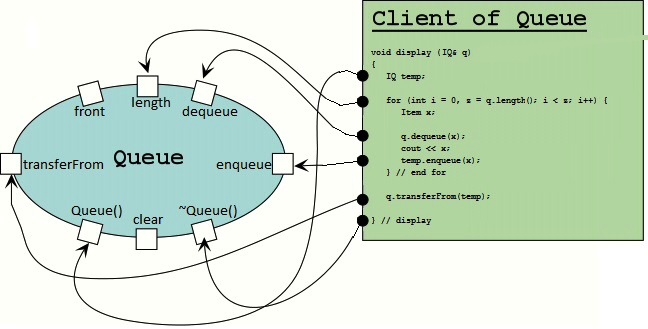
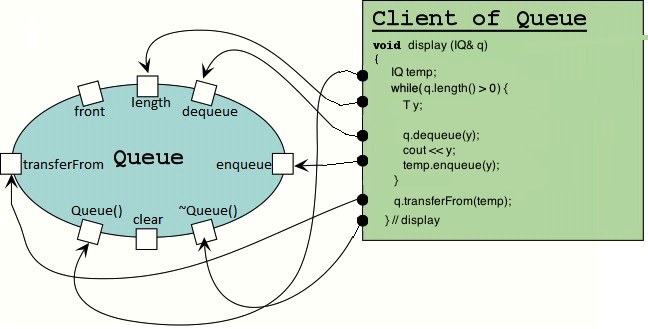
updated the Checking webpage

diff --git a/CheckingComponent/Checking.html b/CheckingComponent/Checking.html
@@ -85,25 +85,23 @@
         </li>
       </ul>
     </td>
-    <td width="50%" valign="top"><code><font size="2"><b>void</b> display (IQ&amp; q)<br>
-		//! restores q<br>
-      {<br>
-      &nbsp;&nbsp; IQ temp;<br>
-      <br>
-      &nbsp;&nbsp; <b>while</b> (q.length() &gt; 0) {<br>
-	  &nbsp;&nbsp;&nbsp;&nbsp;&nbsp;//! updates q<br>
-	  &nbsp;&nbsp;&nbsp;&nbsp;&nbsp;//! maintains temp * q = #q<br>
-	  &nbsp;&nbsp;&nbsp;&nbsp;&nbsp;//! decreases |q|<br>
-&nbsp;&nbsp;&nbsp;&nbsp;&nbsp; Item x;<br>
-	<br>
-      &nbsp;&nbsp;&nbsp;&nbsp;&nbsp; q.dequeue(x);<br>
-      &nbsp;&nbsp;&nbsp;&nbsp;&nbsp; cout &lt;&lt; x;<br>
-      &nbsp;&nbsp;&nbsp;&nbsp;&nbsp; temp.enqueue(x);<br>
-      &nbsp;&nbsp; }<br>
+    <td width="50%" valign="top"><code><font size="2"><pre><strong>void</strong> display (IQ& q)
+//! restores q
+{
+   IQ temp;
 
-      &nbsp;&nbsp; q.transferFrom(temp);<br>
+   <strong>while</strong> (q.length() &gt; 0) {
+     //! updates q
+     //! maintains temp * q = #q
+     //! decreases |q|
+      T y;
 
-      } // display</font></code>
+      q.dequeue(y);
+      cout &lt;&lt; y;
+      temp.enqueue(y);
+   }
+   q.transferFrom(temp);
+} // display</pre>
       <p><b>Client must abide by:</b></p>
       <ol>
         <li>The component's syntactic interface, i.e., call exported operations
@@ -211,28 +209,27 @@
     <p align="left">Visual Studio provides two configurations:</p>
     <ul>
       <li>
-        <p align="left">debug configuration - <code>NDEBUG</code> <i> is not</i>
-        automatically defined by using #define, the 'N' in NDEBUG stands for Not
-        debugging</p></li>
+        <p align="left">debug configuration - <code>_DEBUG</code> <i>is</i>
+        automatically defined by Visual Studio</p></li>
       <li>
-        <p align="left">release configuration - <code>NDEBUG</code> <i> is</i>
-        automatically defined</p></li>
+        <p align="left">release configuration - <code>_DEBUG</code> <i> is not</i>
+        automatically defined by Visual Studio</p></li>
     </ul>
   </li>
   <li>
-    <p align="left">We can use the C Preprocessor #ifdef directive to test for <code>NDEBUG</code>
+    <p align="left">We can use the C Preprocessor #ifdef directive to test for <code>_DEBUG</code>
     being defined.</p></li>
   <li>
-    <p align="left">If <code>NDEBUG</code> <i>is not</i> defined, then we can
+    <p align="left">If <code>_DEBUG</code> <i>is</i> defined, then we can
     provide declarations that make use of the checking components to wrap the
     service providing components that we need to use.</p></li>
   <li>
-    <p align="left">If <code>NDEBUG</code> <i>is</i> defined, then we can
+    <p align="left">If <code>_DEBUG</code> <i>is not</i> defined, then we can
     provide declarations that use the unwrapped/unchecked component</p></li>
 </ul>
 <p align="left"><i>Example: instance creation that is <u>unaware</u> of
 debug/release configurations</i></p>
-<table border="1" width="100%">
+<table border="1" width="50%">
   <tr>
     <td width="50%" align="center">IntQue.h</td>
   </tr>
@@ -246,30 +243,30 @@ debug/release configurations</i></p>
 </table>
 <p align="left"><i>Example: instance creation that is <u>aware</u> of
 debug/release configurations</i></p>
-<table border="1" width="100%">
+<table border="1" width="50%">
   <tr>
     <td width="50%" align="center">IntQue.h</td>
   </tr>
   <tr>
-    <td width="50%" valign="top"><code>#<b>pragma once</b><br>
-      #<b>include</b> &quot;Queue\Queue1.hpp&quot;<br>
-      <br>
-      <br>
-      #<b>ifdef</b>  NDEBUG<br>
-      // Release Configuration
-      <br>
-      <b>typedef</b> Queue1 &lt;Integer&gt; IQ;<br>
-      <br>
-      #<b>else<br>
-        <br>
-        </b>
-      #<b>include</b> &quot;Queue\QueueChecking1.hpp&quot;<br>
-      // Debug Configuration<br>
-      <br>
-      <b>typedef</b> Queue1 &lt;Integer&gt; IntegerQueueBase1;<br>
-      <b>typedef</b> QueueChecking1 &lt;Integer, IntegerQueueBase1&gt; IntegerQueueBase2;<br>
-      <b>typedef</b> IntegerQueueBase2 IQ;
-      #<b>endif</b></code></td>
+    <td width="50%" valign="top">
+	<pre>
+#<strong>pragma</strong> once
+#<strong>ifdef</strong> _DEBUG
+// Debug Configuration
+#<strong>include</strong> "Queue\Queue1.hpp"
+#<strong>include</strong> "Queue\QueueChecking1.hpp"
+
+<strong>typedef</strong> Queue1 &lt;Integer&gt; IntegerQueueBase1;
+<strong>typedef</strong> QueueChecking1 &lt;Integer, IntegerQueueBase1&gt; IntegerQueueBase2;
+<strong>typedef</strong> IntegerQueueBase2 IQ;
+
+#<strong>else</strong>
+// Release Configuration
+#<strong>include</strong> "Queue\Queue1.hpp"
+<strong>typedef</strong> Queue1 &lt;Integer&gt; IQ;
+#endif
+</pre>
+	  </td>
   </tr>
 </table>
 <p align="left"><i>Points to Notice about Example:</i></p>
